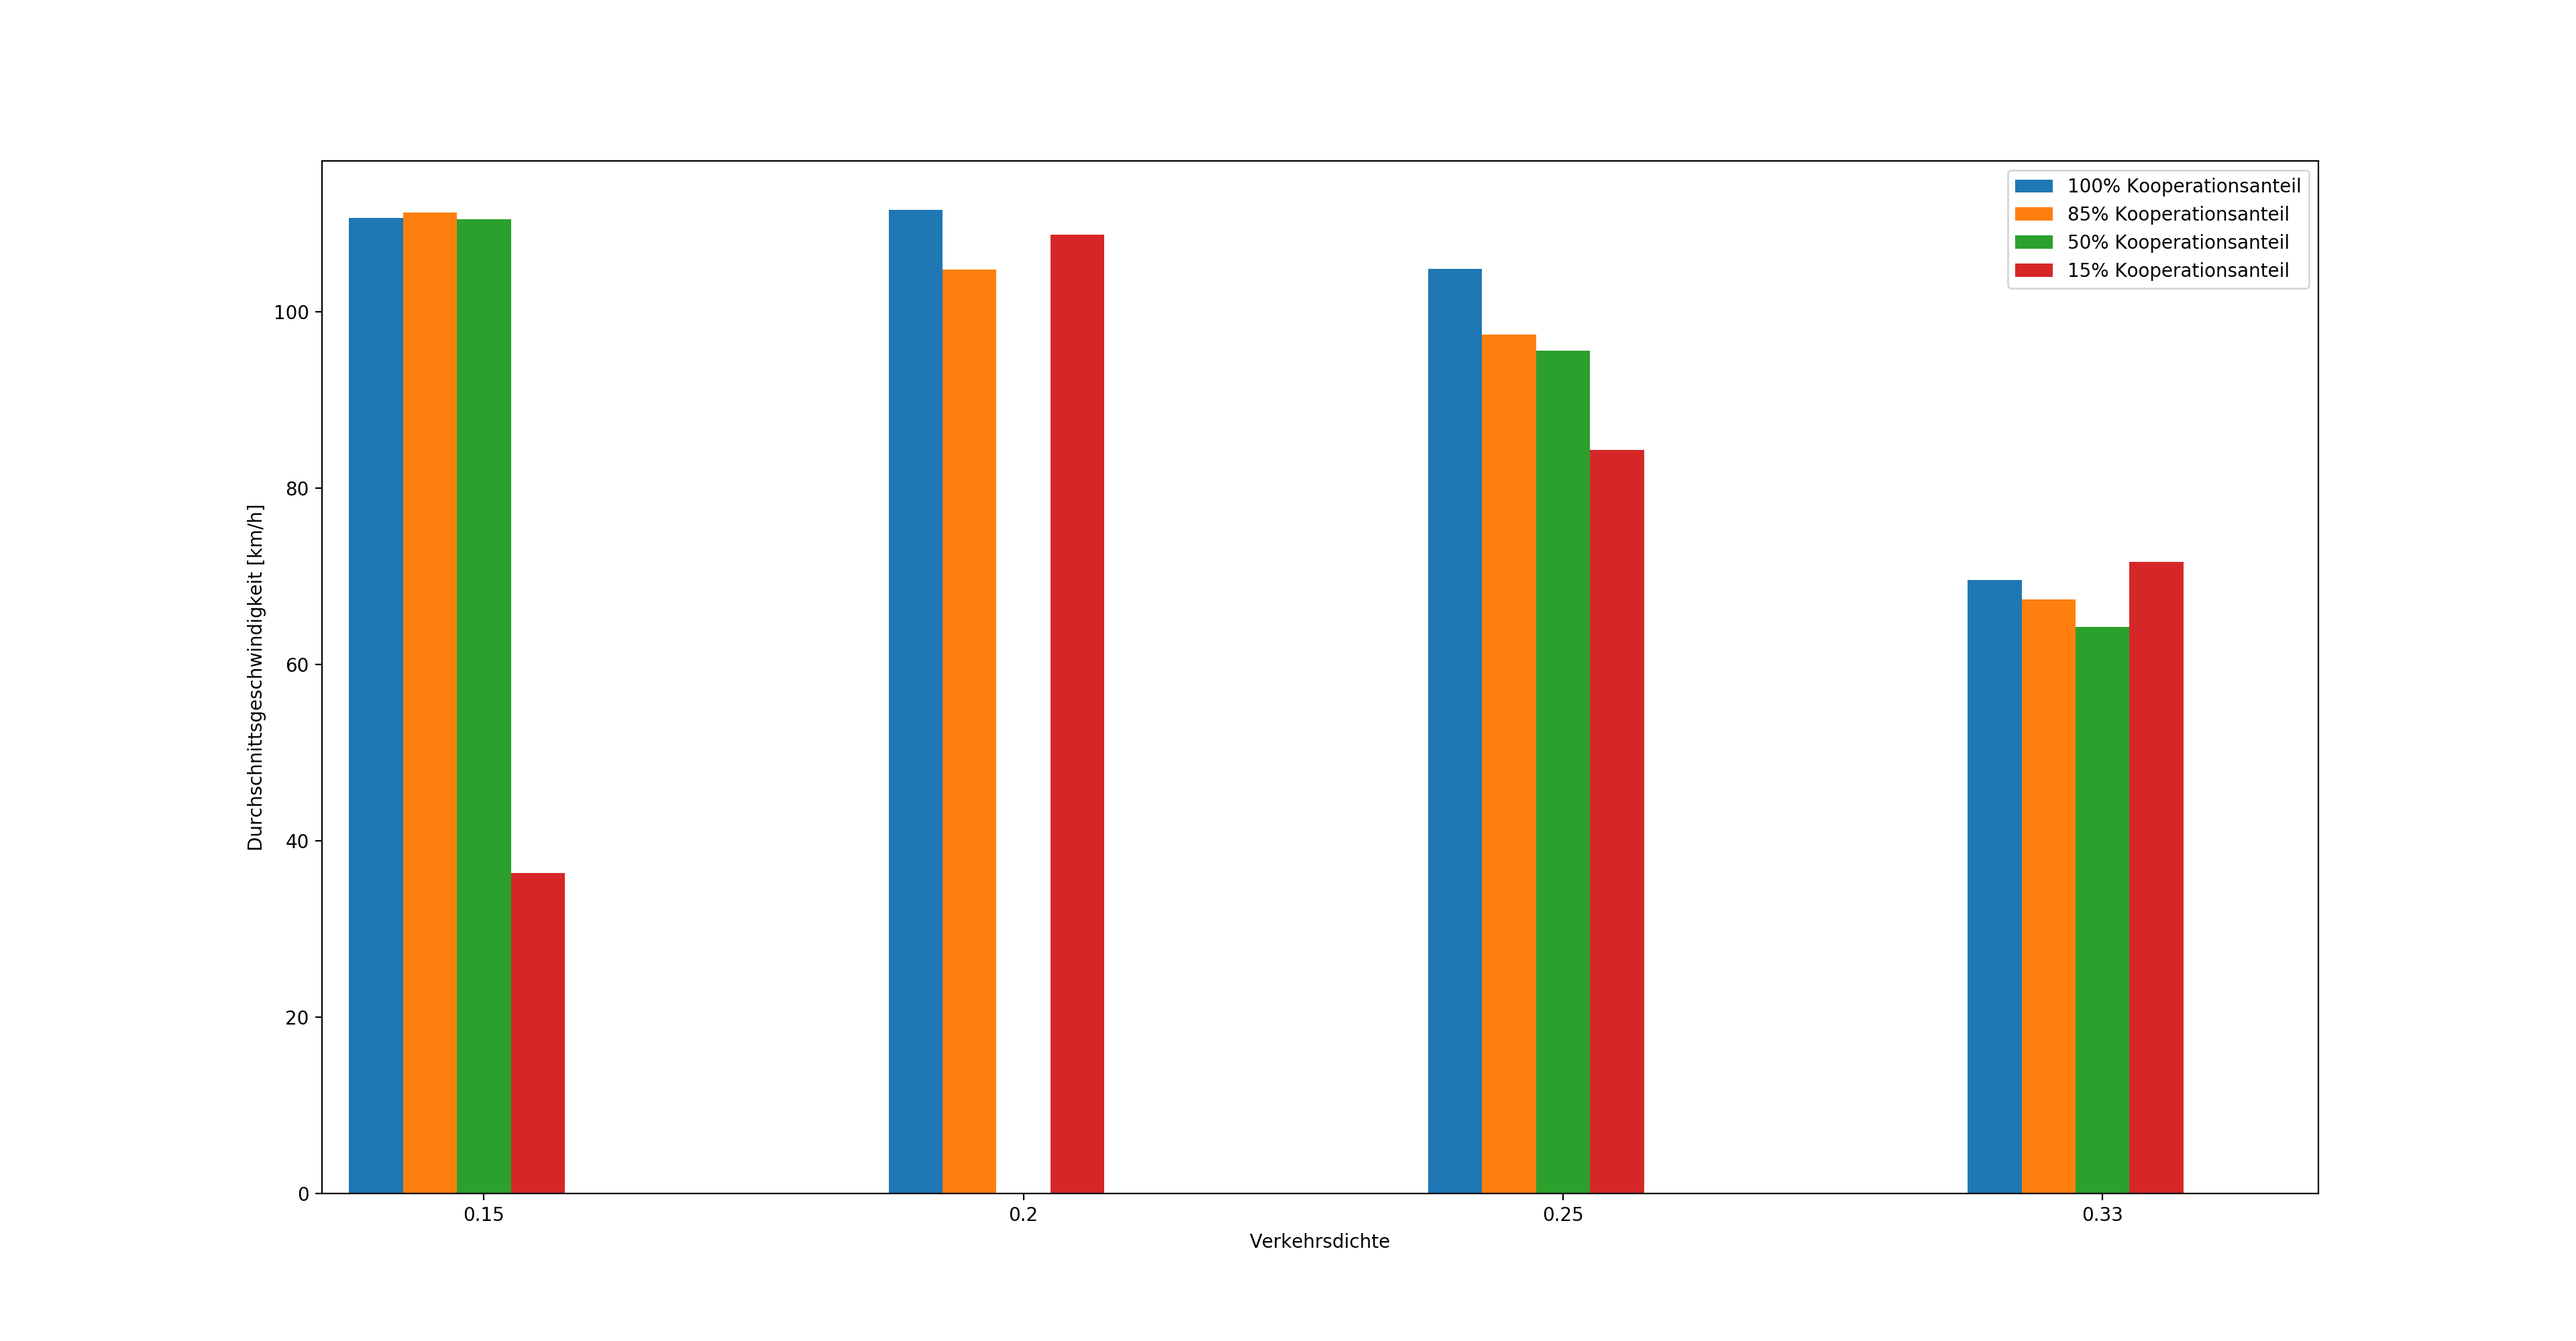
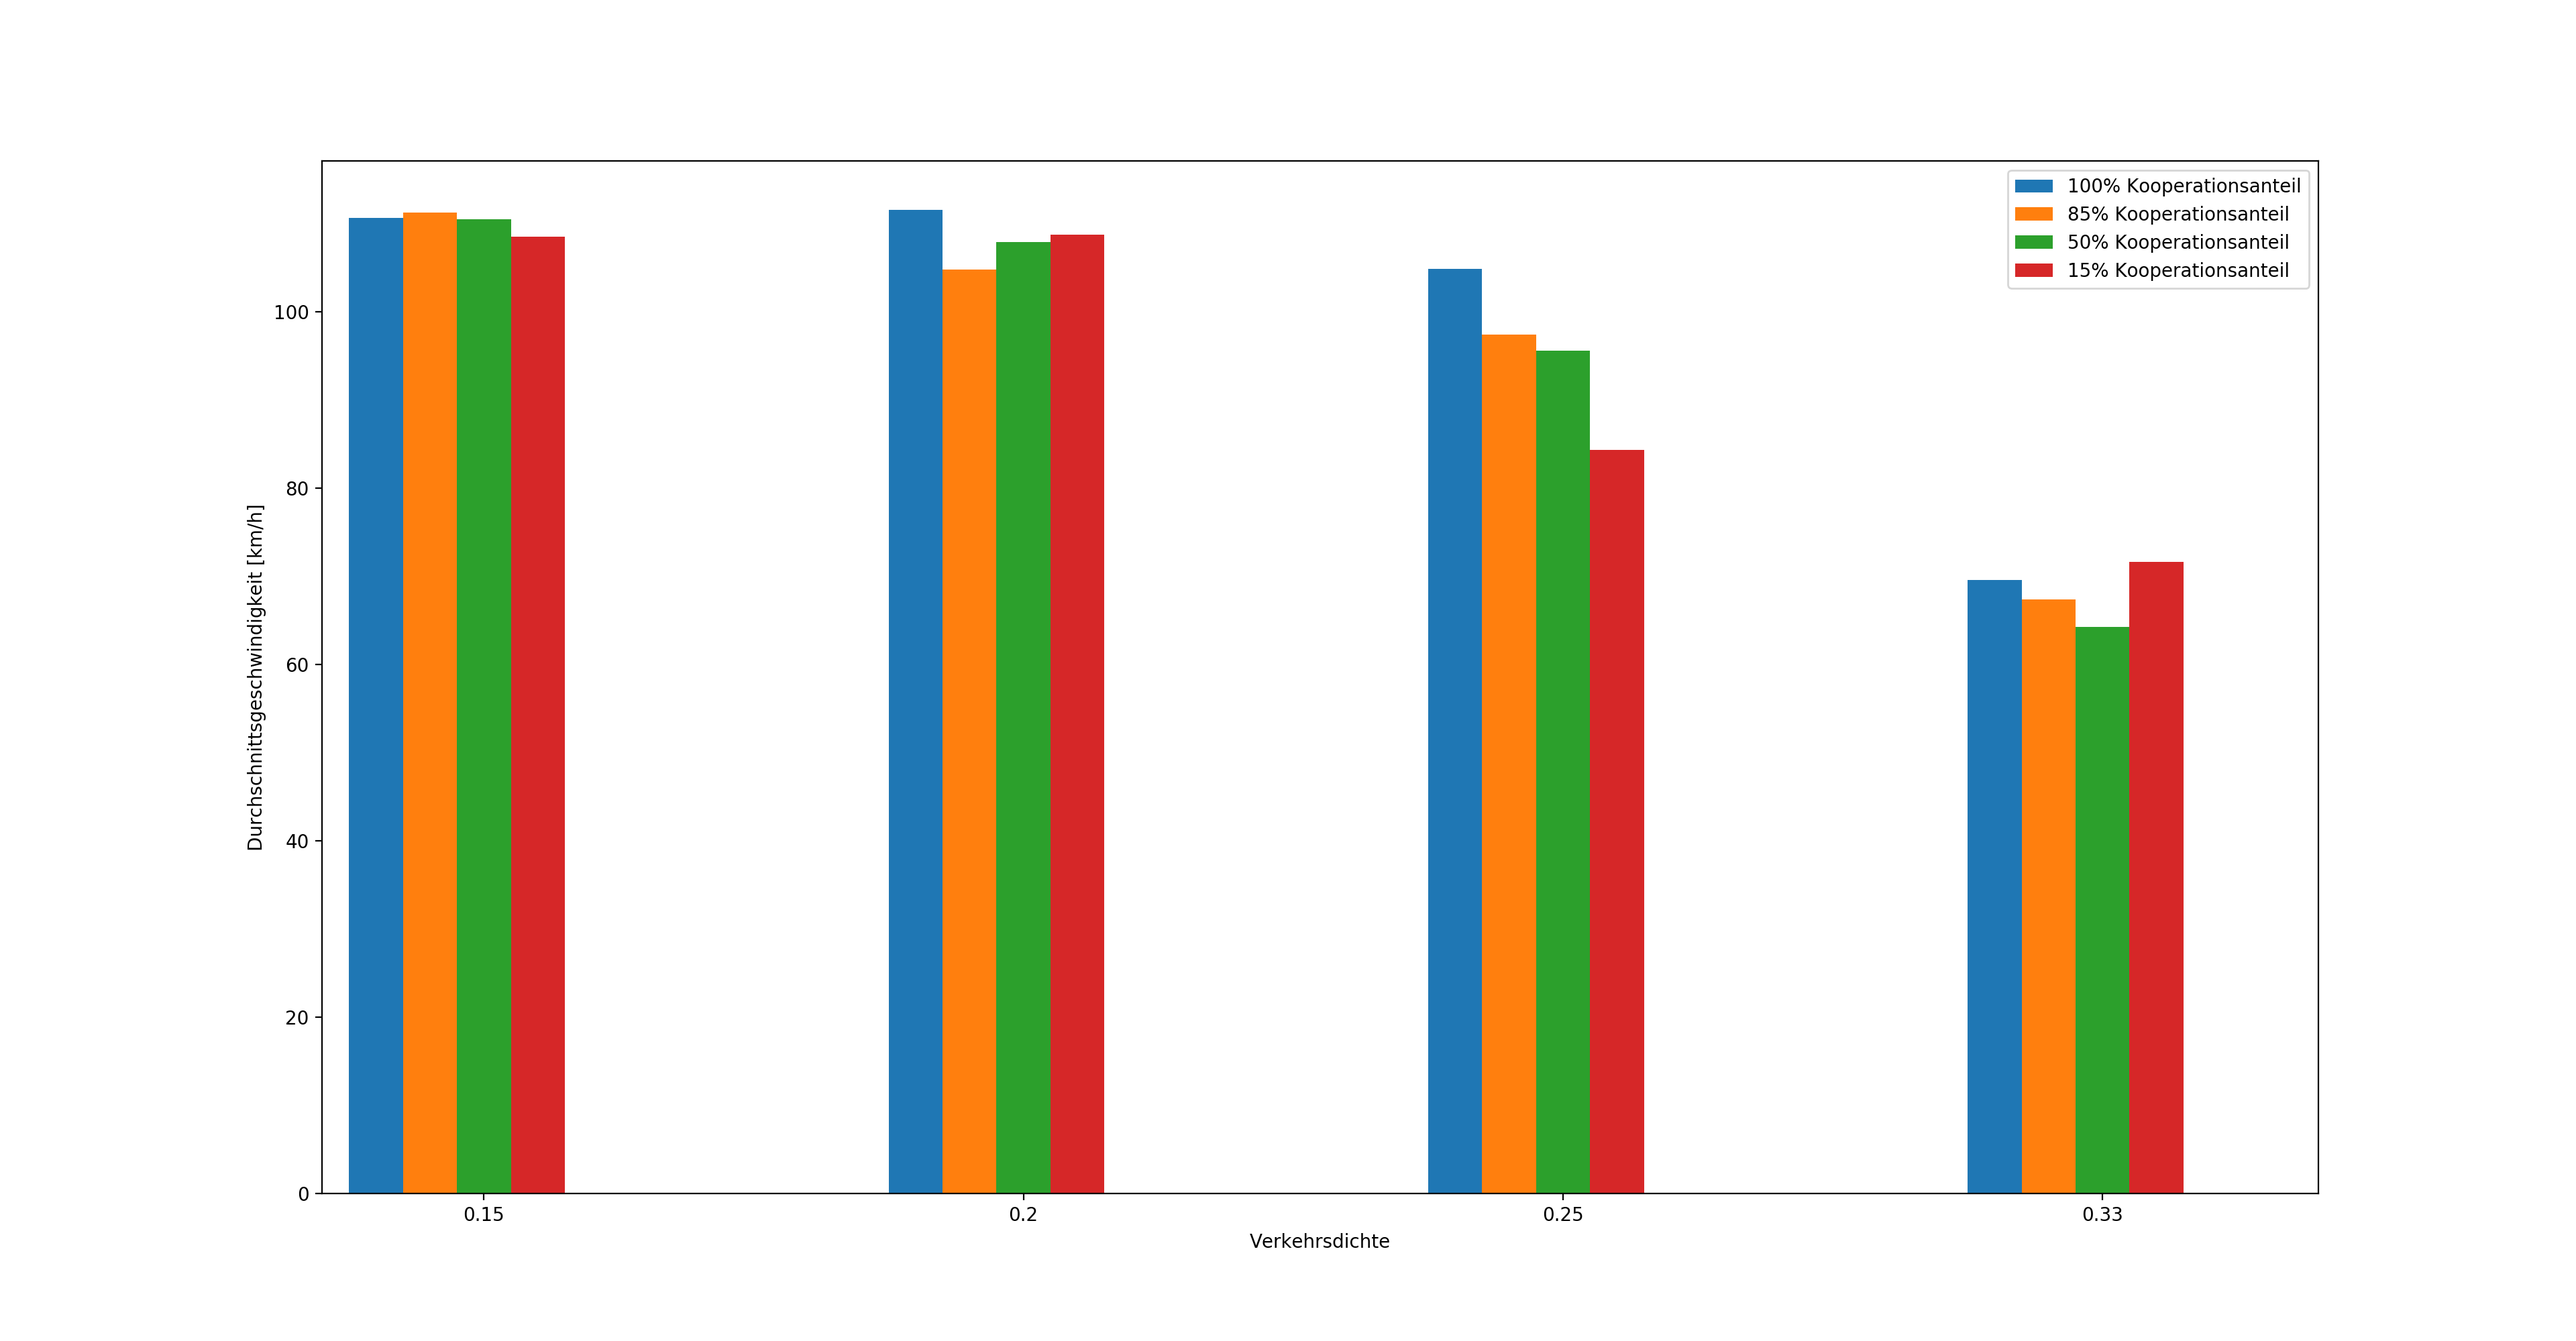
parser

Changed region(s): [[0.375, 0.155, 0.4062, 0.899], [0.1875, 0.155, 0.2188, 0.651]]

diff --git a/parser/parser.py b/parser/parser.py
@@ -2,7 +2,7 @@ import re
 import numpy as np
 import matplotlib.pyplot as plt
 
-file = open('log3.txt', 'r')
+file = open('log5.txt', 'r')
 log = file.read().replace('\n', ' ')
 m = re.findall('\s([0-9]+\.?[0-9]*)', log)
 a = np.array(m).astype(np.float)
